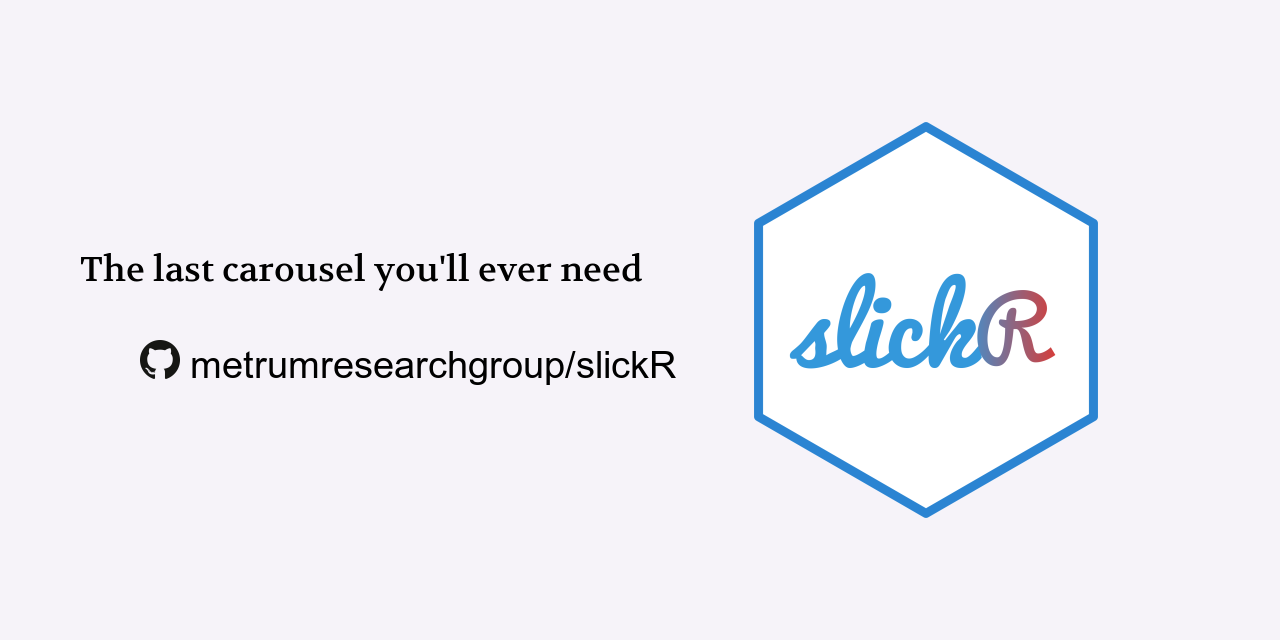
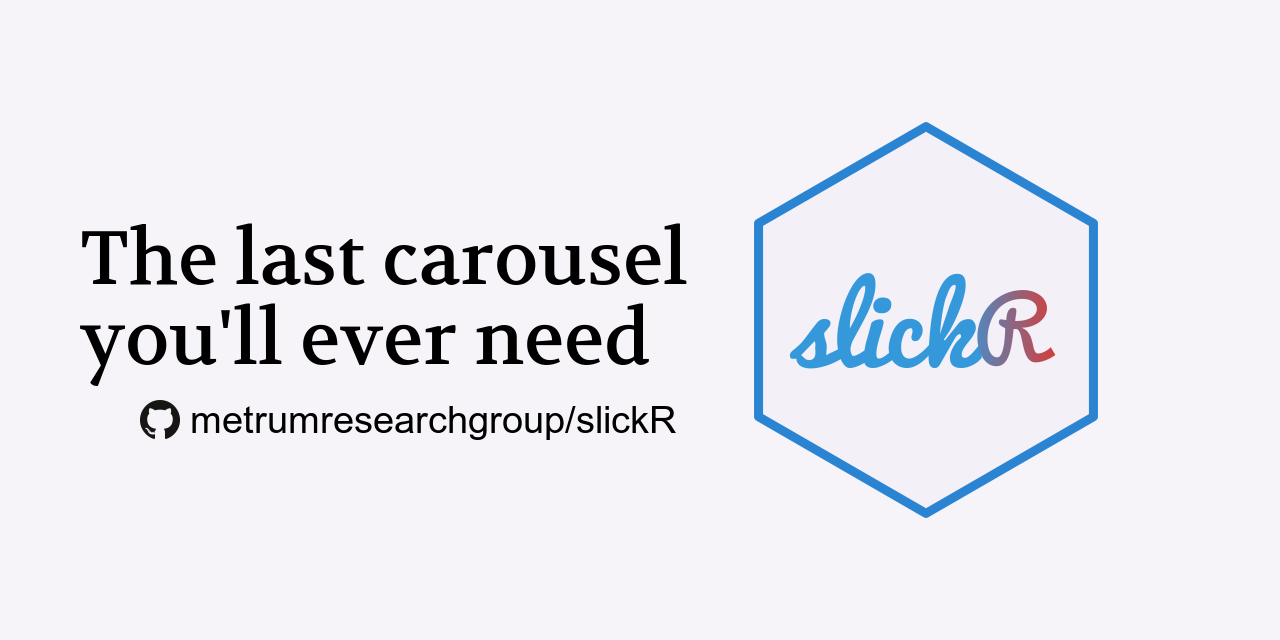
update hex background colour

Changed region(s): [[0.0625, 0.3438, 0.5312, 0.5938], [0.0938, 0.625, 0.5312, 0.6875]]

diff --git a/README.md b/README.md
@@ -7,7 +7,7 @@
 
 # slickR <img src="https://github.com/metrumresearchgroup/slickR/raw/master/man/figures/logo.png" align="right"  class="logo"/>
 
-## "the last carousel you’ll ever need"
+__The last carousel you’ll ever need__
 
 We are happy to bring the [slick](http://kenwheeler.github.io/slick/) JavaScript library to R. It is self described as "the last carousel you'll ever need". This carousel is based on putting the elements of the carousel in a [div](https://www.w3schools.com/tags/tag_div.asp) HTML tag. This makes the carousel very versatile in what can be placed inside. Regular objects that are placed in a carousel can be for example: images, plots, tables, gifs, videos and objects embedded in iframes.
 
